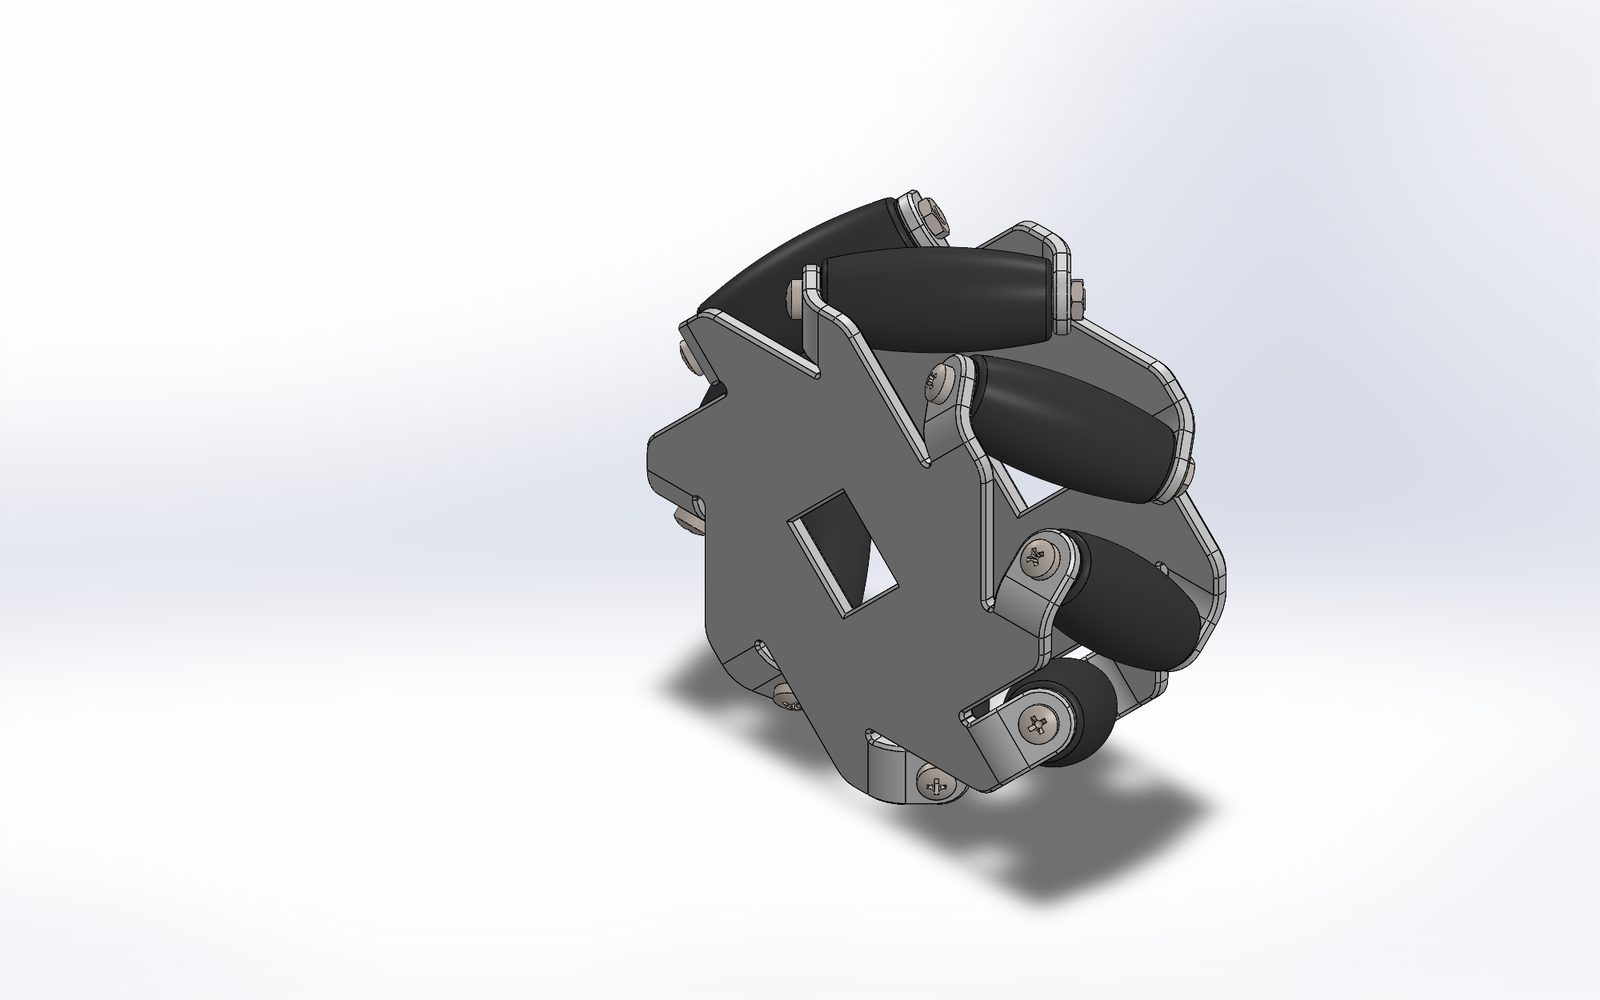
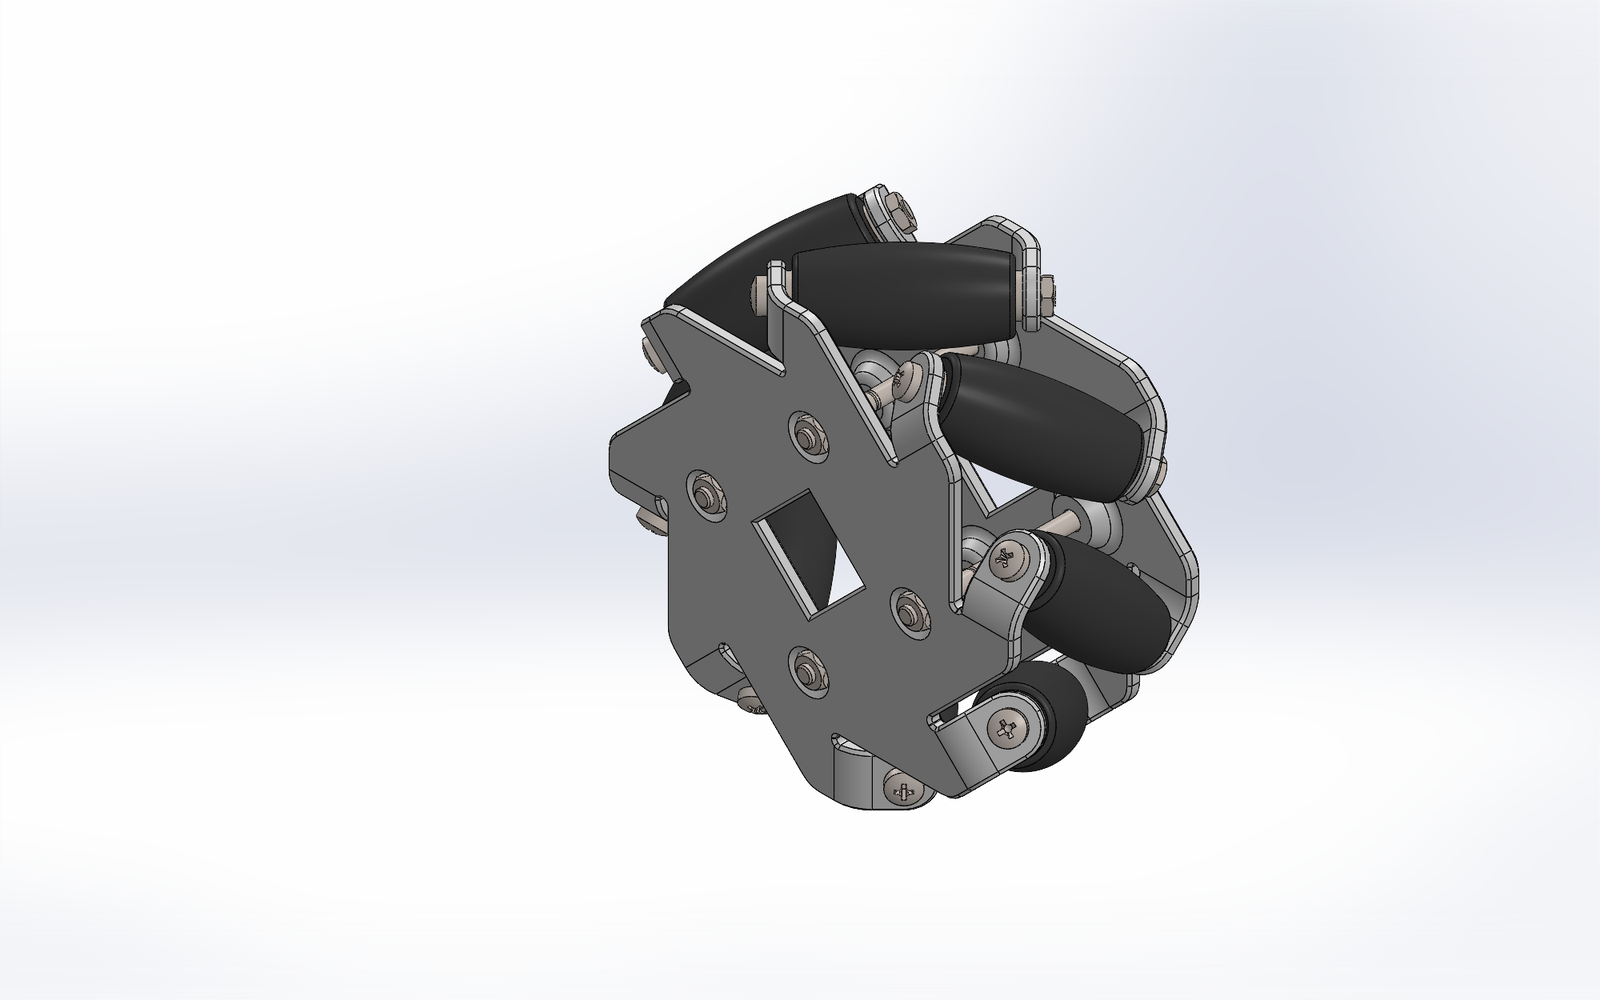
Update Mecanum Wheel Study with the bolted hub and first print

Changed region(s): [[0.375, 0.186, 0.7812, 0.93]]

diff --git a/data/projects.js b/data/projects.js
@@ -225,17 +225,17 @@ export const projects = [
     subtitle:
       "An open-source exploration of low-cost, 3D-printable mecanum wheels designed to make holonomic robotics more accessible to students, hobbyists, and educators.",
     year: "2025-2026",
-    status: "Open study",
+    status: "Open study, first print of the rebuild done",
     projectType: "Solo",
     tags: ["Robotics", "3D Printing", "Mechanisms", "Open Source", "CAD"],
     thumbnail: "assets/images/projects/mecanum-wheel-study/cad/wheel-assembly-latest-iso.png",
     heroImage: "assets/images/projects/mecanum-wheel-study/cad/wheel-assembly-latest-iso.png",
     cardImages: [
       "assets/images/projects/mecanum-wheel-study/cad/wheel-assembly-latest-iso.png",
-      "assets/images/projects/mecanum-wheel-study/cad/part-hi4-iso.png",
+      "assets/images/projects/mecanum-wheel-study/cad/part-hi4-front.png",
+      "assets/images/projects/mecanum-wheel-study/cad/wheel-part-iso.png",
       "assets/images/projects/mecanum-wheel-study/cad/part-hi5-iso.png",
-      "assets/images/projects/mecanum-wheel-study/cad/wheel-assembly-earlier-iso.png",
-      "assets/images/projects/mecanum-wheel-study/cad/wheel-part-iso.png"
+      "assets/images/projects/mecanum-wheel-study/cad/wheel-assembly-earlier-iso.png"
     ],
     summary:
       "An iterative, tolerance-aware mecanum wheel project focused on affordability, reproducibility, and educational value using printable components and open documentation.",
@@ -272,7 +272,20 @@ export const projects = [
       {
         title: "November 2026 rebuild",
         body:
-          "The wheel was remodelled in SolidWorks with a cleaner design tree, so the roller, hub and mounting features are easier to change. The newest assembly in the repository is this iteration."
+          "The wheel was remodelled in SolidWorks with a cleaner design tree, so the roller, hub and mounting features are easier to change. The newest assembly in the repository is this iteration.",
+        figure: "assets/images/projects/mecanum-wheel-study/cad/wheel-assembly-latest-iso.png"
+      },
+      {
+        title: "Bolted hub and first print of the rebuild",
+        body:
+          "The hub plate gained four raised bosses around the square drive bore, and four bolts through them now hold the two plates together. One wheel is two hub plates and eight rollers, and all ten parts fit on a single print plate.",
+        figure: "assets/images/projects/mecanum-wheel-study/print/bambu-plate-hub-plates-and-rollers.png"
+      },
+      {
+        title: "First print result",
+        body:
+          "The first plate finished on 20 November 2026. Both hub plates printed, with the bosses, tabs and square bore all formed. The rollers failed: they were printed standing on end, and came out stringy with uneven ends, so they are not usable yet. The rollers need a different print setup before the wheel can be assembled.",
+        figure: "assets/images/projects/mecanum-wheel-study/print/first-print-hub-plates-and-rollers.jpg"
       }
     ],
     technicalHighlights: [
@@ -310,51 +323,79 @@ export const projects = [
     gallery: [
       {
         src: "assets/images/projects/mecanum-wheel-study/cad/wheel-assembly-latest-iso.png",
-        alt: "Wheel assembly latest, isometric view",
-        caption: "Wheel assembly latest, isometric view.",
+        alt: "Latest wheel assembly, isometric view",
+        caption: "Latest wheel assembly, isometric view.",
         group: "CAD views",
         source: "cad-render"
       },
       {
         src: "assets/images/projects/mecanum-wheel-study/cad/wheel-assembly-latest-front.png",
-        alt: "Wheel assembly latest, front view",
-        caption: "Wheel assembly latest, front view.",
+        alt: "Latest wheel assembly, front view",
+        caption: "Latest wheel assembly, front view.",
         group: "CAD views",
         source: "cad-render"
       },
       {
         src: "assets/images/projects/mecanum-wheel-study/cad/wheel-assembly-latest-right.png",
-        alt: "Wheel assembly latest, right view",
-        caption: "Wheel assembly latest, right view.",
+        alt: "Latest wheel assembly, right view",
+        caption: "Latest wheel assembly, right view.",
         group: "CAD views",
         source: "cad-render"
       },
       {
+        src: "assets/images/projects/mecanum-wheel-study/cad/part-hi4-front.png",
+        alt: "Hub plate, front view: eight roller tabs, four bolt bosses and the square drive bore",
+        caption: "Hub plate, front view: eight roller tabs, four bolt bosses and the square drive bore.",
+        group: "Parts",
+        source: "cad-render"
+      },
+      {
         src: "assets/images/projects/mecanum-wheel-study/cad/part-hi4-iso.png",
-        alt: "Part hi4, isometric view",
-        caption: "Part hi4, isometric view.",
-        group: "Sub-assemblies and parts",
-        source: "cad-render"
-      },
-      {
-        src: "assets/images/projects/mecanum-wheel-study/cad/part-hi5-iso.png",
-        alt: "Part hi5, isometric view",
-        caption: "Part hi5, isometric view.",
-        group: "Sub-assemblies and parts",
-        source: "cad-render"
-      },
-      {
-        src: "assets/images/projects/mecanum-wheel-study/cad/wheel-assembly-earlier-iso.png",
-        alt: "Wheel assembly earlier, isometric view",
-        caption: "Wheel assembly earlier, isometric view.",
-        group: "Sub-assemblies and parts",
+        alt: "Hub plate, isometric view",
+        caption: "Hub plate, isometric view.",
+        group: "Parts",
         source: "cad-render"
       },
       {
         src: "assets/images/projects/mecanum-wheel-study/cad/wheel-part-iso.png",
-        alt: "Wheel part, isometric view",
-        caption: "Wheel part, isometric view.",
-        group: "Sub-assemblies and parts",
+        alt: "Roller, isometric view",
+        caption: "Roller, isometric view.",
+        group: "Parts",
+        source: "cad-render"
+      },
+      {
+        src: "assets/images/projects/mecanum-wheel-study/cad/wheel-part-front.png",
+        alt: "Roller, front view",
+        caption: "Roller, front view.",
+        group: "Parts",
+        source: "cad-render"
+      },
+      {
+        src: "assets/images/projects/mecanum-wheel-study/print/bambu-plate-hub-plates-and-rollers.png",
+        alt: "One wheel on the print plate in Bambu Studio: two hub plates and eight rollers",
+        caption: "One wheel on the print plate in Bambu Studio: two hub plates and eight rollers.",
+        group: "Printing",
+        source: "screenshot"
+      },
+      {
+        src: "assets/images/projects/mecanum-wheel-study/print/first-print-hub-plates-and-rollers.jpg",
+        alt: "First print of the rebuilt wheel: two hub plates and eight rollers on a desk mat",
+        caption: "First print of the rebuild. The two hub plates printed; the rollers came out stringy and uneven and need reprinting.",
+        group: "Printing",
+        source: "photo"
+      },
+      {
+        src: "assets/images/projects/mecanum-wheel-study/cad/part-hi5-iso.png",
+        alt: "Alternative hub plate (hi5), isometric view",
+        caption: "Alternative hub plate (hi5), isometric view.",
+        group: "Earlier iterations",
+        source: "cad-render"
+      },
+      {
+        src: "assets/images/projects/mecanum-wheel-study/cad/wheel-assembly-earlier-iso.png",
+        alt: "2025 wheel assembly, isometric view",
+        caption: "2025 wheel assembly, isometric view.",
+        group: "Earlier iterations",
         source: "cad-render"
       }
     ],
@@ -363,7 +404,9 @@ export const projects = [
       "The hardest parts were roller clearance and finding fasteners long enough for the assembly."
     ],
     futureWork: [
-      "Print the latest wheel and run a roll test. The profile is now circular, so it should roll smoothly.",
+      "Reprint the rollers with a setup that holds them down, such as a brim or a different orientation, since the first set failed.",
+      "Assemble the wheel and run a roll test. The profile is now circular, so it should roll smoothly.",
+      "Add photos of the assembled wheel.",
       "Complete repeated print-and-test cycles using multiple printers and materials to validate the tolerance assumptions.",
       "Measure practical drivetrain behaviour under load to compare the printable design against commercial wheels.",
       "Add assembly documentation and troubleshooting notes targeted at first-time student builders."
